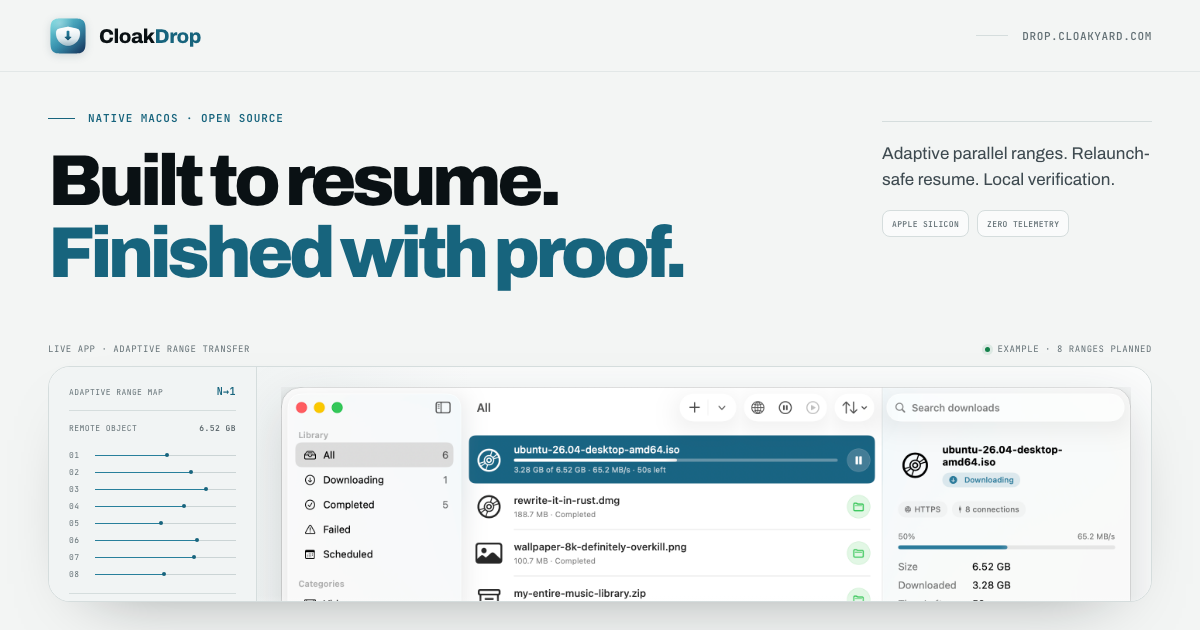
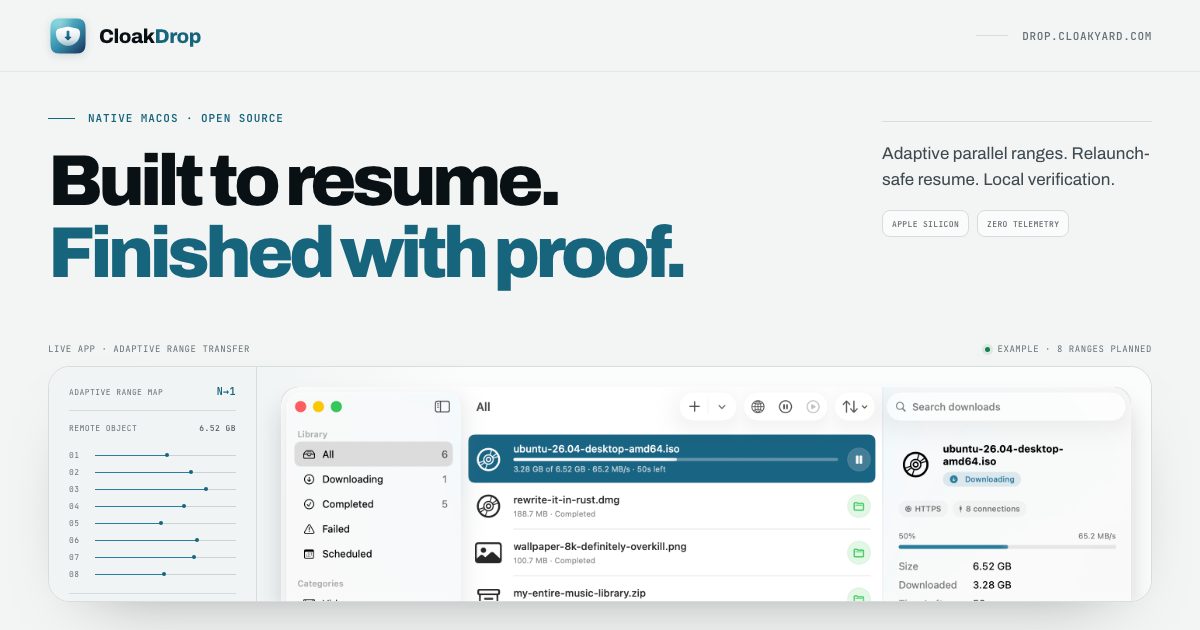
Fix screenshot corner artifacts

diff --git a/assets/social/og.html b/assets/social/og.html
@@ -355,13 +355,24 @@
           var(--surface);
       }
 
-      .app-stage img {
+      .app-window {
         position: absolute;
         top: 20px;
         left: 24px;
         width: 850px;
+        height: 526px;
+        overflow: hidden;
+        border-radius: 16px;
+        background: var(--surface);
+        box-shadow: 0 18px 26px rgba(14, 26, 31, 0.16);
+      }
+
+      .app-window img {
+        position: absolute;
+        top: -1px;
+        left: -1px;
+        width: 852px;
         max-width: none;
-        filter: drop-shadow(0 18px 26px rgba(14, 26, 31, 0.16));
       }
 
       .app-stage::after {
@@ -431,7 +442,9 @@
           <div class="merge"><span>Planned ranges</span><b>08 → 01</b></div>
         </div>
         <div class="app-stage">
-          <img src="../screenshots/hero.png" alt="" />
+          <div class="app-window">
+            <img src="../screenshots/hero.png" alt="" />
+          </div>
         </div>
       </figure>
     </main>
